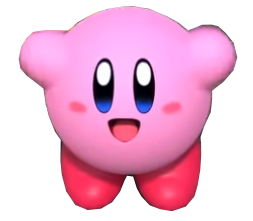
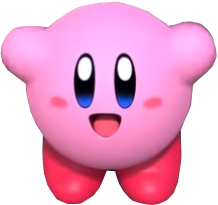
カービィを作成

diff --git a/kirby_2/css.css b/kirby_2/css.css
@@ -88,7 +88,6 @@ main {
   padding: 100% 0 0;
   box-shadow: 0 0 0 0.1vw var(--black);
 }
-#container .kirby_content .kirby_inner .tears,
 #container .kirby_content .kirby_inner .eye,
 #container .kirby_content .kirby_inner .mouth,
 #container .kirby_content .kirby_inner .cheek,
@@ -98,21 +97,21 @@ main {
   transition: all ease-in-out .3s;
 }
 #container .kirby_content .kirby_inner .eye {
-  width: 10%;
-  padding: 30% 0 0;
+  width: 14%;
+  padding: 33% 0 0;
   background: var(--black);
-  border-radius: 44%;
+  border-radius: 50%;
   top: 27%;
-  left: 34%;
+  left: 37%;
   animation: eye 5s ease-out infinite;
 } 
 #container .kirby_content .kirby_inner .eye:before {
   background-color: var(--white);
   position: absolute;
-  width: 60%;
+  width: 65%;
   height: 45%;
-  border-radius: 44%;
-  top: 3%;
+  border-radius: 50%;
+  top: 5%;
   left: 50%;
   transform: translateX(-50%);
   z-index: 2;
@@ -123,20 +122,20 @@ main {
   height: auto;
   display: block;
   position: absolute;
-  top: -10%;
+  top: -30%;
   z-index: 1111;
   transform: rotate(60deg);
-  left: -27%;
-  padding: 150% 0 0;
+  left: -33%;
+  padding: 130% 0 0;
   background-image: linear-gradient(90deg, var(--pinktwo) 0 95%, var(--black) 95% 100%);
 }
 #container .kirby_content .kirby_inner .eye.two {
-  left: 65%;
+  left: 61%;
 }
 #container .kirby_content .kirby_inner .eye.two:after {
   transform: rotate(-60deg);
   background-image: linear-gradient(-90deg, var(--pinktwo) 0 95%, var(--black) 95% 100%);
-  left: 27%;
+  left: 35%;
 }
 #container .kirby_content .kirby_inner .mouth {
   border-radius: 50%;
@@ -169,22 +168,12 @@ main {
   bottom: 3%;
   left: 50%;
   transform: translateX(-50%);
-  width: 50%;
-  height: 50%;
-  border-radius: 40% 40% 50% 50%/40% 40% 50% 50%;
+  width: 70%;
+  height: 70%;
+  border-radius: 40% 40% 50% 50%/40% 40% 70% 70%;
   background: var(--pinkthree);
   display: block;
   position: absolute;
-}
-#container .kirby_content .kirby_inner .tears {
-  top: 57%;
-  right: 27%;
-  display: block;
-  width: 0%;
-  height: 0%;
-  background: var(--waterblue);
-  border-radius: 70% 70% 50% 50%/70% 70% 50% 50%;
-  animation: tears 5s ease-out infinite;
 }
 #container .kirby_content .kirby_inner .cheek {
   background-color: var(--pinkthree);
@@ -263,62 +252,9 @@ main {
   animation: foot-mov-3 .1s ease-in-out infinite;
 }
 
-/**
-* one checked
-**/
-input:checked ~ #container .kirby_content .kirby_inner .eye {
-  top: 23%;
-}
-input:checked ~ #container .kirby_content .kirby_inner .cheek {
-  top: 56%;
-}
-input:checked ~ #container .kirby_content .kirby_inner .mouth {
-  top: 65%;
-}
-input:checked ~ #container .kirby_content .kirby_inner .tears {
-  display: none;
-}
-input:checked ~ #container .kirby_content .kirby_inner .hand {
-  top: 44%;
-  transform: rotate(-10deg);
-}
-input:checked ~ #container .kirby_content .kirby_inner .hand.two {
-  top: 42%;
-  transform: rotate(195deg);
-}
 
 /**
-* two checked
-**/
-input:checked ~ input:checked ~ #container .kirby_content .kirby_inner .eye:after{
-  content: none;
-}
-input:checked ~ input:checked ~ #container .kirby_content .kirby_inner .eye {
-  top: 23%;
-}
-input:checked ~ input:checked ~ #container .kirby_content .kirby_inner .cheek {
-  top: 56%;
-}
-input:checked ~ input:checked ~ #container .kirby_content .kirby_inner .mouth {
-  border-radius: 60% 60% 50% 50% / 60% 60% 50% 50%; 
-  height: 7%;
-  width: 10%;
-  left: 51%;
-}
-input:checked ~ input:checked ~ #container .kirby_content .kirby_inner .mouth:after {
-  border-radius: 60% 60% 50% 50% / 60% 60% 50% 50%;
-}
-input:checked ~ input:checked ~ #container .kirby_content .kirby_inner .hand {
-  top: 37%;
-  transform: rotate(2deg);
-}
-input:checked ~ input:checked ~ #container .kirby_content .kirby_inner .hand.two {
-  top: 37%;
-  transform: rotate(180deg);
-}
-
-/**
-* three checked
+* checked
 **/
 input:checked ~ #container .kirby_content .kirby_inner .eye:after{
   content: none;
@@ -330,11 +266,11 @@ input:checked ~ #container .kirby_content .kirby_inner .cheek {
   top: 56%;
 }
 input:checked ~ #container .kirby_content .kirby_inner .mouth {
-  border-radius: 40% 40% 50% 50%/30% 30% 70% 70%; 
-  height: 13%;
-  width: 15%;
-  left: 49%;
-  top: 61%;
+  border-radius: 35% 35% 50% 50%/30% 30% 70% 70%;
+  height: 16%;
+  width: 21%;
+  left: 46%;
+  top: 59%;
 }
 input:checked ~ #container .kirby_content .kirby_inner .mouth:after {
   border-radius: 40% 40% 50% 50%/30% 30% 70% 70%;
@@ -361,28 +297,6 @@ input:checked ~ #container .kirby_content .kirby_inner .hand.two {
 /**
 * animation
 **/
-@keyframes tears {
-  0% {
-    width: 0;
-    height: 0;
-    right: 30%;
-    top: 57%;
-    opacity: 1;
-  }
-  51% {
-    width: 3%;
-    height: 5%;
-    right: 27%;
-    top: 57%;
-    opacity: 1;
-  }
-  100% {
-    width: 3%;
-    height: 5%;
-    top: 100%;
-    opacity: 0;
-  }
-}
 
 @keyframes eye {
   0% {
@@ -422,67 +336,67 @@ input:checked ~ #container .kirby_content .kirby_inner .hand.two {
 
 @keyframes eye-before {
   0% {
-    top: 3%;
+    top: 5%;
     background-color: var(--white);
-    width: 60%;
+    width: 65%;
     height: 45%;
   }
   51% {
-    top: 3%;
+    top: 5%;
     background-color: var(--white);
-    width: 60%;
+    width: 65%;
     height: 45%;
   }
   51.5% {
-    top: 60%;
+    top: 62%;
     background-color: var(--black);
     width: 200%;
     height: 2%;
   }
   52% {
-    top: 3%;
+    top: 5%;
     background-color: var(--white);
-    width: 60%;
+    width: 65%;
     height: 45%;
   }
   52.5% {
-    top: 60%;
+    top: 62%;
     background-color: var(--black);
     width: 200%;
     height: 2%;
   }
   53% {
-    top: 3%;
+    top: 5%;
     background-color: var(--white);
-    width: 60%;
+    width: 65%;
     height: 45%;
   }
   98% {
-    top: 3%;
+    top: 5%;
     background-color: var(--white);
-    width: 60%;
+    width: 65%;
     height: 45%;
   }
   98.5% {
-    top: 60%;
+    top: 64%;
     background-color: var(--black);
     width: 200%;
     height: 2%;
   }
   99% {
-    top: 3%;
+    top: 5%;
     background-color: var(--white);
-    width: 60%;
+    width: 65%;
     height: 45%;
   }
   99.5% {
-    top: 60%;
+    top: 62%;
     background-color: var(--black);
     width: 200%;
     height: 2%;
   }
   100% {
-    top: 3%;
+    top: 5%;
     background-color: var(--white);
     width: 60%;
     height: 45%;

diff --git a/kirby_2/index.html b/kirby_2/index.html
@@ -8,9 +8,20 @@
   </head>
   <body>
     <main>
+      <div
+       style="background-image: url(img.png);
+             background-repeat: no-repeat;
+             background-size: 100%;
+             position: absolute;
+             width: 33%;
+             height: 100%;
+             left: 50%;
+             transform: translate(-50%, 0);
+             ">
+      </div> 
       <input type="checkbox" id="switch-type1" name="switch">
       <div id="container">
-        <div class="kirby_content">
+        <div class="kirby_content" style="opacity: .7;">
           <div class="kirby_inner">
             <div class="eye"></div>
             <div class="eye two"></div>
